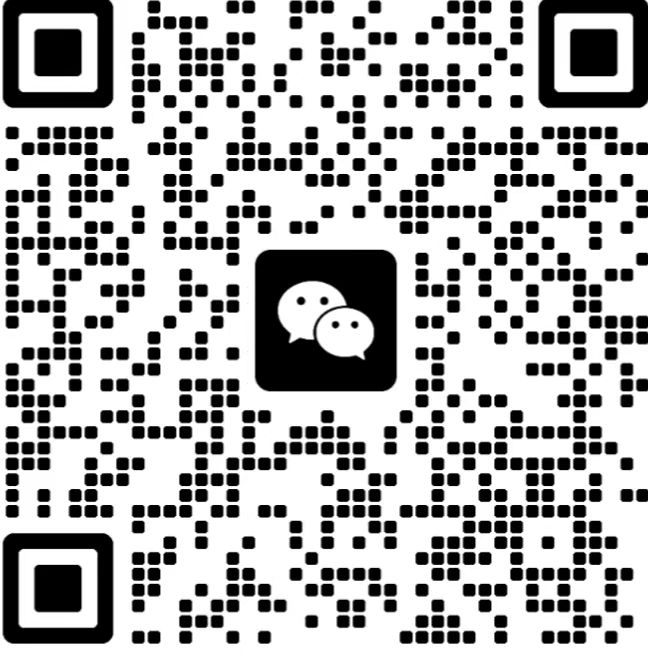
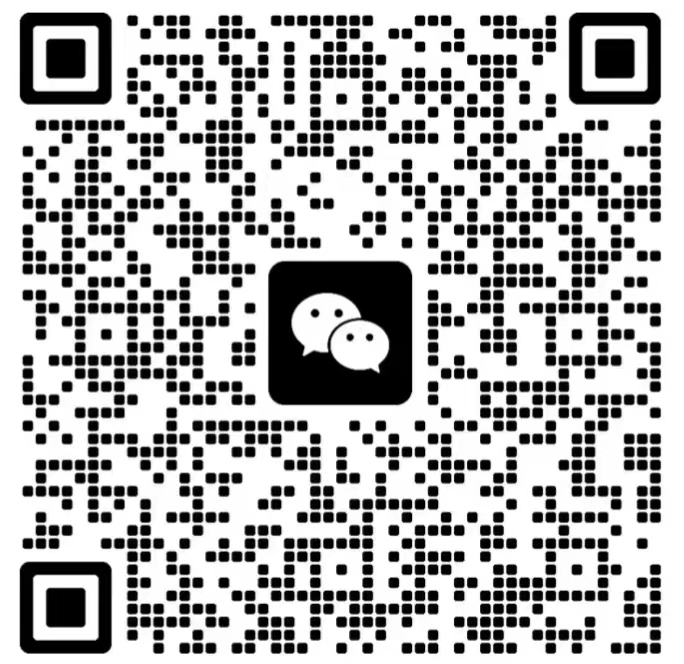
更换群二维码

diff --git a/_site/about/index.html b/_site/about/index.html
@@ -9,16 +9,16 @@
 <meta property="og:locale" content="en_US" />
 <meta name="description" content="欢迎来到小野blog，这是一个技术博客，主要用于记录自己的技术成长历程。博客内容包括但不限于技术文章，学习心得，杂记等。希望通过这个博客 ，鼓励自己不断的学习和进步，并且能够得到各位大牛的批评指点，能够对热爱编程的朋友们有所帮助。" />
 <meta property="og:description" content="欢迎来到小野blog，这是一个技术博客，主要用于记录自己的技术成长历程。博客内容包括但不限于技术文章，学习心得，杂记等。希望通过这个博客 ，鼓励自己不断的学习和进步，并且能够得到各位大牛的批评指点，能够对热爱编程的朋友们有所帮助。" />
-<link rel="canonical" href="http://192.168.3.154:4000/about/" />
-<meta property="og:url" content="http://192.168.3.154:4000/about/" />
+<link rel="canonical" href="/about/" />
+<meta property="og:url" content="/about/" />
 <meta property="og:site_name" content="小野blog" />
 <meta property="og:type" content="website" />
 <meta name="twitter:card" content="summary" />
 <meta property="twitter:title" content="About" />
 <script type="application/ld+json">
-{"@context":"https://schema.org","@type":"WebSite","description":"欢迎来到小野blog，这是一个技术博客，主要用于记录自己的技术成长历程。博客内容包括但不限于技术文章，学习心得，杂记等。希望通过这个博客 ，鼓励自己不断的学习和进步，并且能够得到各位大牛的批评指点，能够对热爱编程的朋友们有所帮助。","headline":"About","name":"小野blog","url":"http://192.168.3.154:4000/about/"}</script>
+{"@context":"https://schema.org","@type":"WebSite","description":"欢迎来到小野blog，这是一个技术博客，主要用于记录自己的技术成长历程。博客内容包括但不限于技术文章，学习心得，杂记等。希望通过这个博客 ，鼓励自己不断的学习和进步，并且能够得到各位大牛的批评指点，能够对热爱编程的朋友们有所帮助。","headline":"About","name":"小野blog","url":"/about/"}</script>
 <!-- End Jekyll SEO tag -->
-<link rel="stylesheet" href="/assets/main.css"><link type="application/atom+xml" rel="alternate" href="http://192.168.3.154:4000/feed.xml" title="小野blog" /></head>
+<link rel="stylesheet" href="/assets/main.css"><link type="application/atom+xml" rel="alternate" href="/feed.xml" title="小野blog" /></head>
 <body><header class="site-header" role="banner">
 
   <div class="wrapper"><a class="site-title" rel="author" href="/">小野blog</a><nav class="site-nav">

diff --git a/_site/index.html b/_site/index.html
@@ -9,16 +9,16 @@
 <meta property="og:locale" content="en_US" />
 <meta name="description" content="欢迎来到小野blog，这是一个技术博客，主要用于记录自己的技术成长历程。博客内容包括但不限于技术文章，学习心得，杂记等。希望通过这个博客 ，鼓励自己不断的学习和进步，并且能够得到各位大牛的批评指点，能够对热爱编程的朋友们有所帮助。" />
 <meta property="og:description" content="欢迎来到小野blog，这是一个技术博客，主要用于记录自己的技术成长历程。博客内容包括但不限于技术文章，学习心得，杂记等。希望通过这个博客 ，鼓励自己不断的学习和进步，并且能够得到各位大牛的批评指点，能够对热爱编程的朋友们有所帮助。" />
-<link rel="canonical" href="http://192.168.3.154:4000/" />
-<meta property="og:url" content="http://192.168.3.154:4000/" />
+<link rel="canonical" href="/" />
+<meta property="og:url" content="/" />
 <meta property="og:site_name" content="小野blog" />
 <meta property="og:type" content="website" />
 <meta name="twitter:card" content="summary" />
 <meta property="twitter:title" content="小野blog" />
 <script type="application/ld+json">
-{"@context":"https://schema.org","@type":"WebSite","description":"欢迎来到小野blog，这是一个技术博客，主要用于记录自己的技术成长历程。博客内容包括但不限于技术文章，学习心得，杂记等。希望通过这个博客 ，鼓励自己不断的学习和进步，并且能够得到各位大牛的批评指点，能够对热爱编程的朋友们有所帮助。","headline":"小野blog","name":"小野blog","url":"http://192.168.3.154:4000/"}</script>
+{"@context":"https://schema.org","@type":"WebSite","description":"欢迎来到小野blog，这是一个技术博客，主要用于记录自己的技术成长历程。博客内容包括但不限于技术文章，学习心得，杂记等。希望通过这个博客 ，鼓励自己不断的学习和进步，并且能够得到各位大牛的批评指点，能够对热爱编程的朋友们有所帮助。","headline":"小野blog","name":"小野blog","url":"/"}</script>
 <!-- End Jekyll SEO tag -->
-<link rel="stylesheet" href="/assets/main.css"><link type="application/atom+xml" rel="alternate" href="http://192.168.3.154:4000/feed.xml" title="小野blog" /></head>
+<link rel="stylesheet" href="/assets/main.css"><link type="application/atom+xml" rel="alternate" href="/feed.xml" title="小野blog" /></head>
 <body><header class="site-header" role="banner">
 
   <div class="wrapper"><a class="site-title" rel="author" href="/">小野blog</a><nav class="site-nav">
